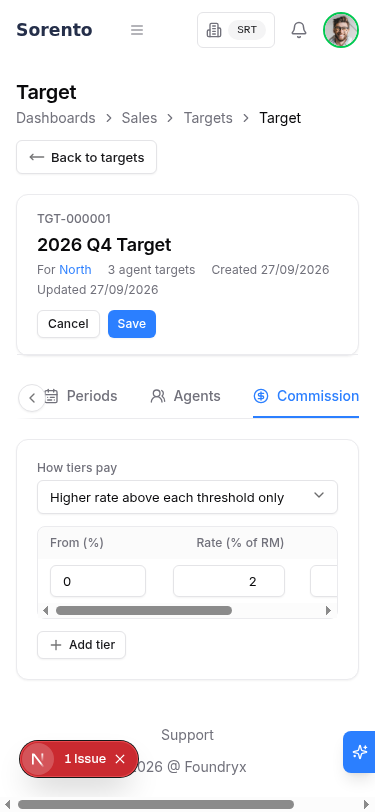
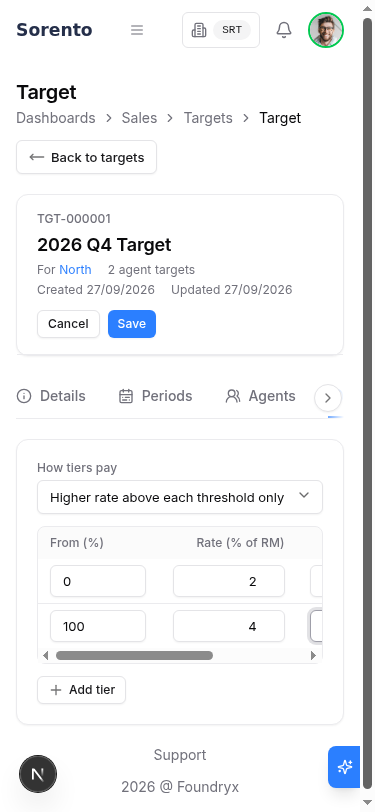
docs(sales): round 3 evidence, the 375 commission fix re-verified (#1170) [skip ci]
Claude-Session: https://claude.ai/code/session_01LgkpdCUAbSbsB96vjN5Ngt

diff --git a/documentation/plans/sales/evidence/s1/round3/README.md b/documentation/plans/sales/evidence/s1/round3/README.md
@@ -26,9 +26,9 @@ app - CIN's agent target was opened by clicking her name in the team's Agents gr
 target was re-opened from CIN's "Open team target" link, never a deep URL. `get url` was checked
 after each navigation.
 
-## Defect found
+## Defect found, then fixed (round 3 follow-up)
 
-**Commission tab, Edit mode: the tier table overflows the page at 375px, not just its own box.**
+**Commission tab, Edit mode: the tier table overflowed the page at 375px, not just its own box.**
 
 - Repro: any target record (tested on the team target TGT-000001, and the pattern is shared code
   so the same applies to an agent target) → Commission tab → gear → Edit (or, empty state, "Add
@@ -37,27 +37,33 @@ after each navigation.
   Every other grid on these records (Periods, the team's Agents grid, both wider than 375 too)
   honours this - `document.documentElement.scrollWidth` stayed 375 with those tabs' edit modes
   open.
-- Actual: `document.documentElement.scrollWidth` reads **460** with the Commission tab's tier
-  table visible in Edit mode (one tier row is enough to trigger it; two tiers doesn't make it
-  worse). The table itself does scroll inside its own bordered box (a scrollbar is visible under
-  the From/Rate columns in `06-commission-edit-375.png`), but the PAGE also grows a second,
-  full-width horizontal scrollbar - visible at the very bottom of the same screenshot, below the
-  footer text and the floating AI-assistant button. Confirmed causal, not a snapshot artifact: with
-  the table's own wrapping `<div class="overflow-x-auto rounded-lg border">` toggled to
-  `display:none` via `eval`, `document.documentElement.scrollWidth` drops from 460 to 375;
-  restoring the div brings it back to 460. Read again three times a second apart (460, 460, 460),
-  so not a mid-transition frame either.
-- Root cause pointer for the coder: `TargetRecord.tsx` line ~1503, the tier table
-  (`<table aria-label="Commission tiers" className="w-full min-w-[28rem] text-sm">`, 448px) sits
-  inside `<div className="overflow-x-auto rounded-lg border">` inside `<section
-  className="flex flex-col gap-3 p-5">` (the Commission tab panel). The Periods table one tab
-  over uses the identical wrapper pattern (`overflow-x-auto rounded-lg border` around a
-  `min-w-[32rem]` table, 512px - wider than Commission's) and does NOT leak past the page at
-  375px, so the difference is something specific to the Commission section's markup or its
-  `sm:w-80` "How tiers pay" sibling block, not the overflow pattern itself. No console error and
-  no uncaught exception accompanies it (`console`/`errors` both clean) - it is a pure CSS layout
-  defect, not a JS one.
-- Everything else in F1/F2/F3 passed clean at both widths; this is the one open item.
+- Actual (first pass): `document.documentElement.scrollWidth` read **460** with the Commission
+  tab's tier table visible in Edit mode (one tier row was enough to trigger it; two tiers didn't
+  make it worse). The table itself scrolled inside its own bordered box (a scrollbar was visible
+  under the From/Rate columns), but the PAGE also grew a second, full-width horizontal scrollbar -
+  visible at the very bottom of the original screenshot, below the footer text and the floating
+  AI-assistant button. Confirmed causal, not a snapshot artifact: with the table's own wrapping
+  `<div class="overflow-x-auto rounded-lg border">` toggled to `display:none` via `eval`,
+  `document.documentElement.scrollWidth` dropped from 460 to 375; restoring the div brought it
+  back to 460. Read three times a second apart (460, 460, 460), so not a mid-transition frame
+  either.
+- Root cause (confirmed by the fix): the sr-only "Remove" column header
+  (`<span className="sr-only">Remove</span>` inside a `<th>`) was escaping the scroll box because
+  the wrapping `<div className="overflow-x-auto rounded-lg border">` had no `position: relative`,
+  so an implicit containing-block resolution let the accessibility-hidden content contribute to
+  page-level layout width instead of being clipped by the scroll container. The Periods table one
+  tab over uses the identical `overflow-x-auto rounded-lg border` wrapper with an even wider table
+  (`min-w-[32rem]`, 512px vs Commission's 448px) and never leaked, because its header has no
+  sr-only cell.
+- **Fix verified in this follow-up**: the candidate fix changes the wrapper to
+  `className="relative overflow-x-auto rounded-lg border"` (`TargetRecord.tsx` ~line 1502).
+  Re-ran the identical repro (team target TGT-000001, Commission tab, Edit mode, two tiers: 0%/
+  rate 2, 100%/rate 4/bonus 500, viewport 375x812): `document.documentElement.scrollWidth` now
+  reads **360** (stable across three reads a second apart). `06-commission-edit-375.png` was
+  retaken and shows only the table's own internal scrollbar, no page-level one. No console error
+  or uncaught exception either before or after (`console`/`errors` both clean throughout).
+- Everything else in F1/F2/F3 passed clean at both widths in the original round 3 pass; this was
+  the one open item, and it is now closed.
 
 ## Screenshots
 
@@ -68,7 +74,7 @@ after each navigation.
 | 03-team-agents-read-1280 / -375 | Team target Agents tab, read mode: ALI 600/600/600, CIN 400/400/400, MEI "No figure yet", Team target totals row 1,000/1,000/1,000 |
 | 04-team-agents-edit-live-total-1280 / -375 | Same tab in Edit mode: every cell an input including MEI's row; typing MEI's Oct figure (200) live-updates the Team target totals row to 1,200 before Save |
 | 05-commission-empty-1280 | Commission tab, no tiers: "No commission" + "Add tier" button (F2) |
-| 06-commission-edit-1280 / -375 | Edit mode, two tiers typed (0% / rate 2, 100% / rate 4 / bonus 500) - the 375 shot is also the defect screenshot (see above) |
+| 06-commission-edit-1280 / -375 | Edit mode, two tiers typed (0% / rate 2, 100% / rate 4 / bonus 500) - the 375 shot was retaken after the `relative` fix landed (see "Defect found, then fixed" above) and shows only the table's own internal scrollbar, no page-level one |
 | 07-commission-read-1280 / -375 | Read mode after Save: tiers as read-only rows |
 | 08-agent-record-header-1280 / -375 | CIN's agent target (opened from the team's Agents grid): header reads "2026 Q4 Target / For CIN - Cindy Lee / Agent target, part of 2026 Q4 Target" with a link |
 | 09-agent-team-target-tab-1280 / -375 | CIN's Team target tab: parent's name/number, measure, counts, applies to, dates, split, periods (with the post-save figures) and "Open team target" |
@@ -78,7 +84,8 @@ after each navigation.
 
 ## scrollWidth readings at 375
 
-All screens read `document.documentElement.scrollWidth <= 375` except the one noted above:
+All screens read `document.documentElement.scrollWidth <= 375`, including Commission edit mode
+after the fix landed:
 
 | Screen | scrollWidth |
 | --- | --- |
@@ -86,7 +93,8 @@ All screens read `document.documentElement.scrollWidth <= 375` except the one no
 | Team Periods, edit | 375 |
 | Team Agents, read | 375 |
 | Team Agents, edit (live totals) | 375 |
-| Commission, edit (team target) | **460 - defect** |
+| Commission, edit (team target) - before the `relative` fix | 460 (defect, now fixed) |
+| Commission, edit (team target, two tiers) - after the `relative` fix, this follow-up | 360 |
 | Commission, read (team target, after save) | 375 |
 | Agent record header (CIN) | 360 |
 | Agent Team target tab (CIN) | 360 |
